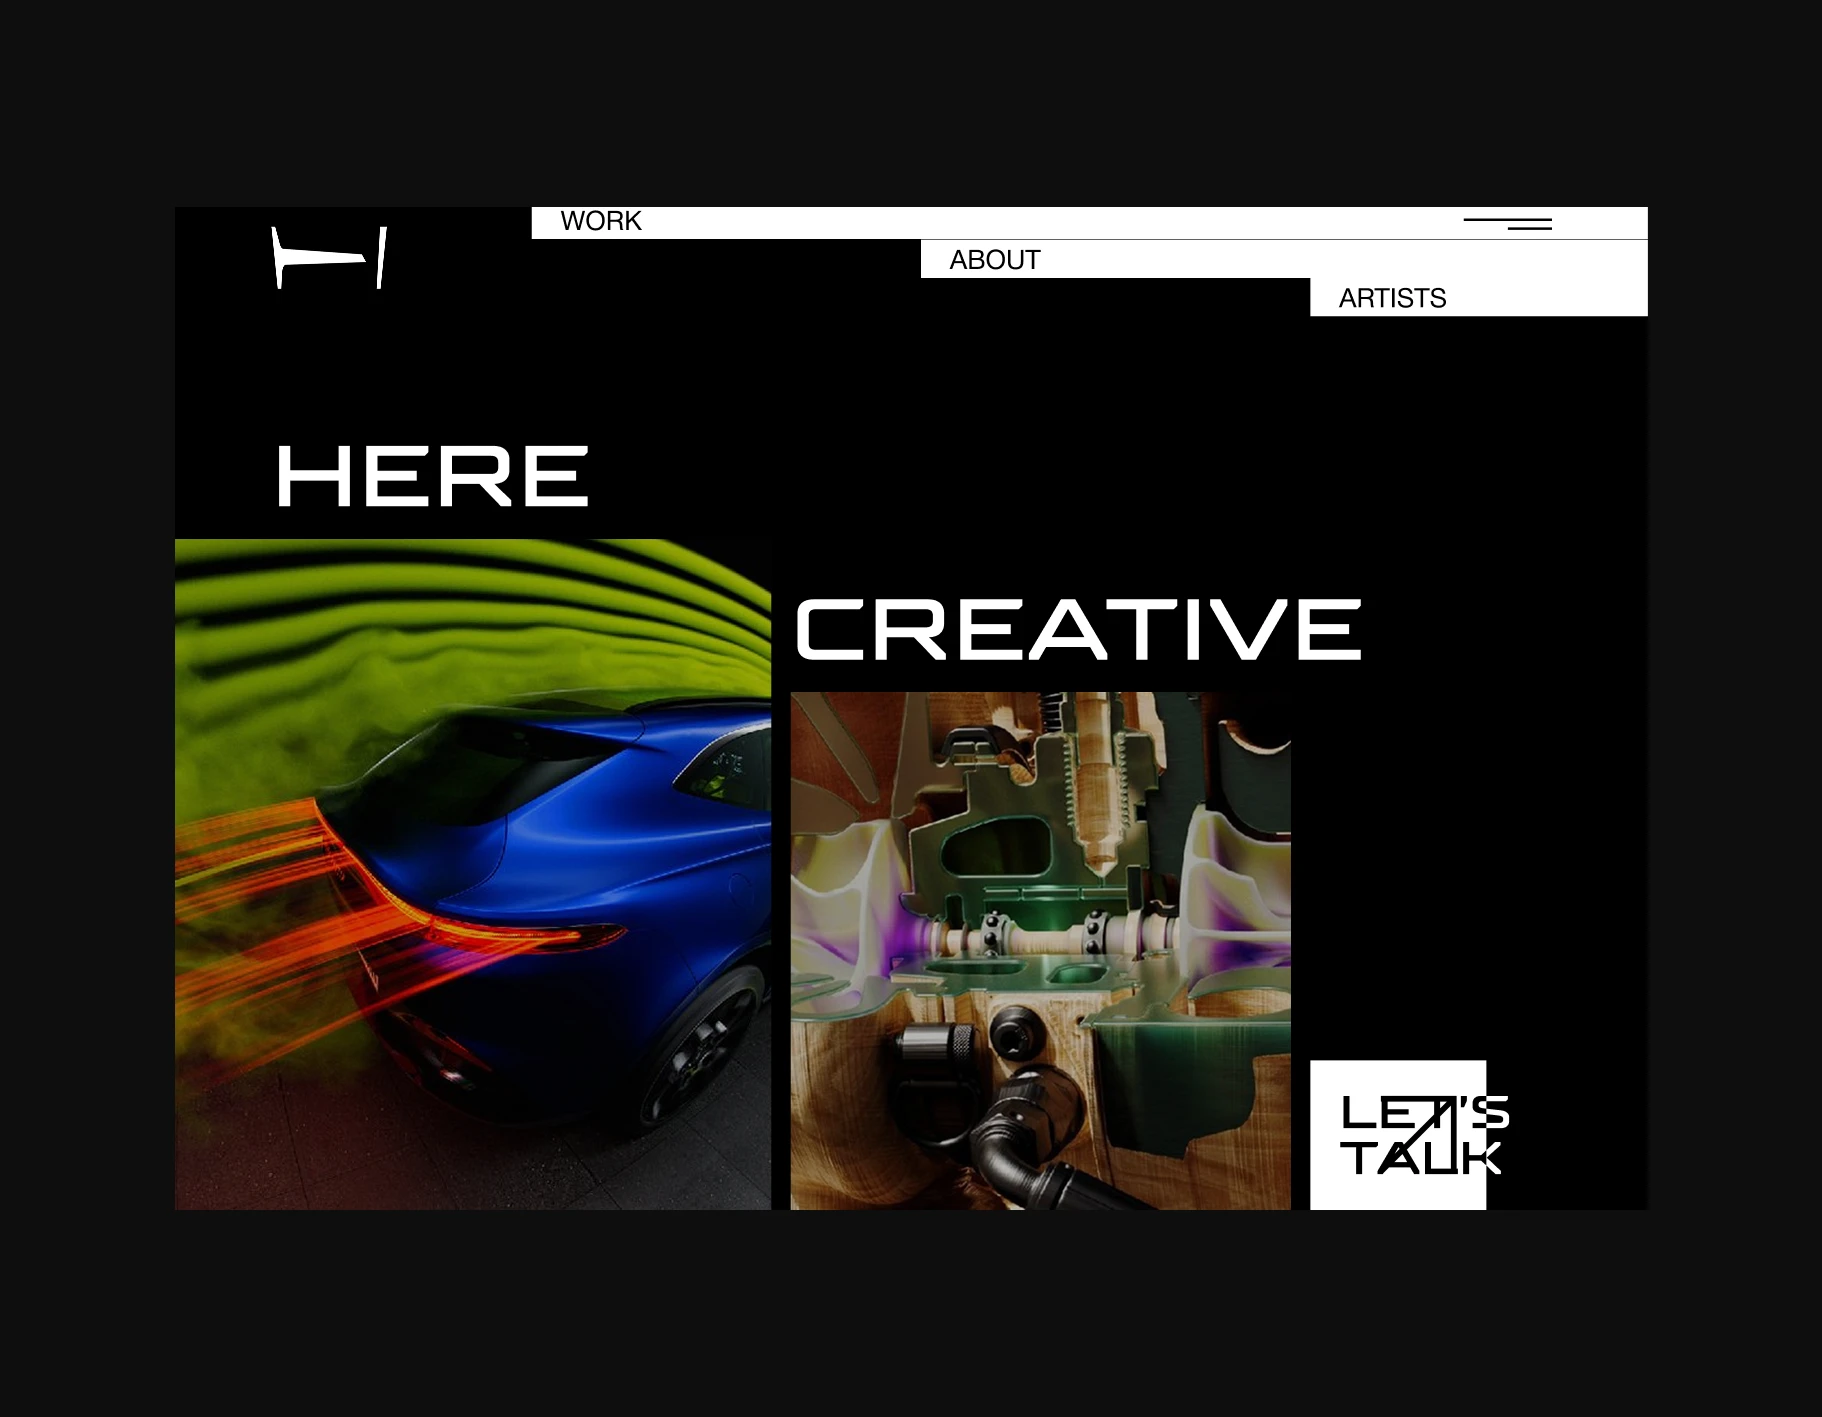
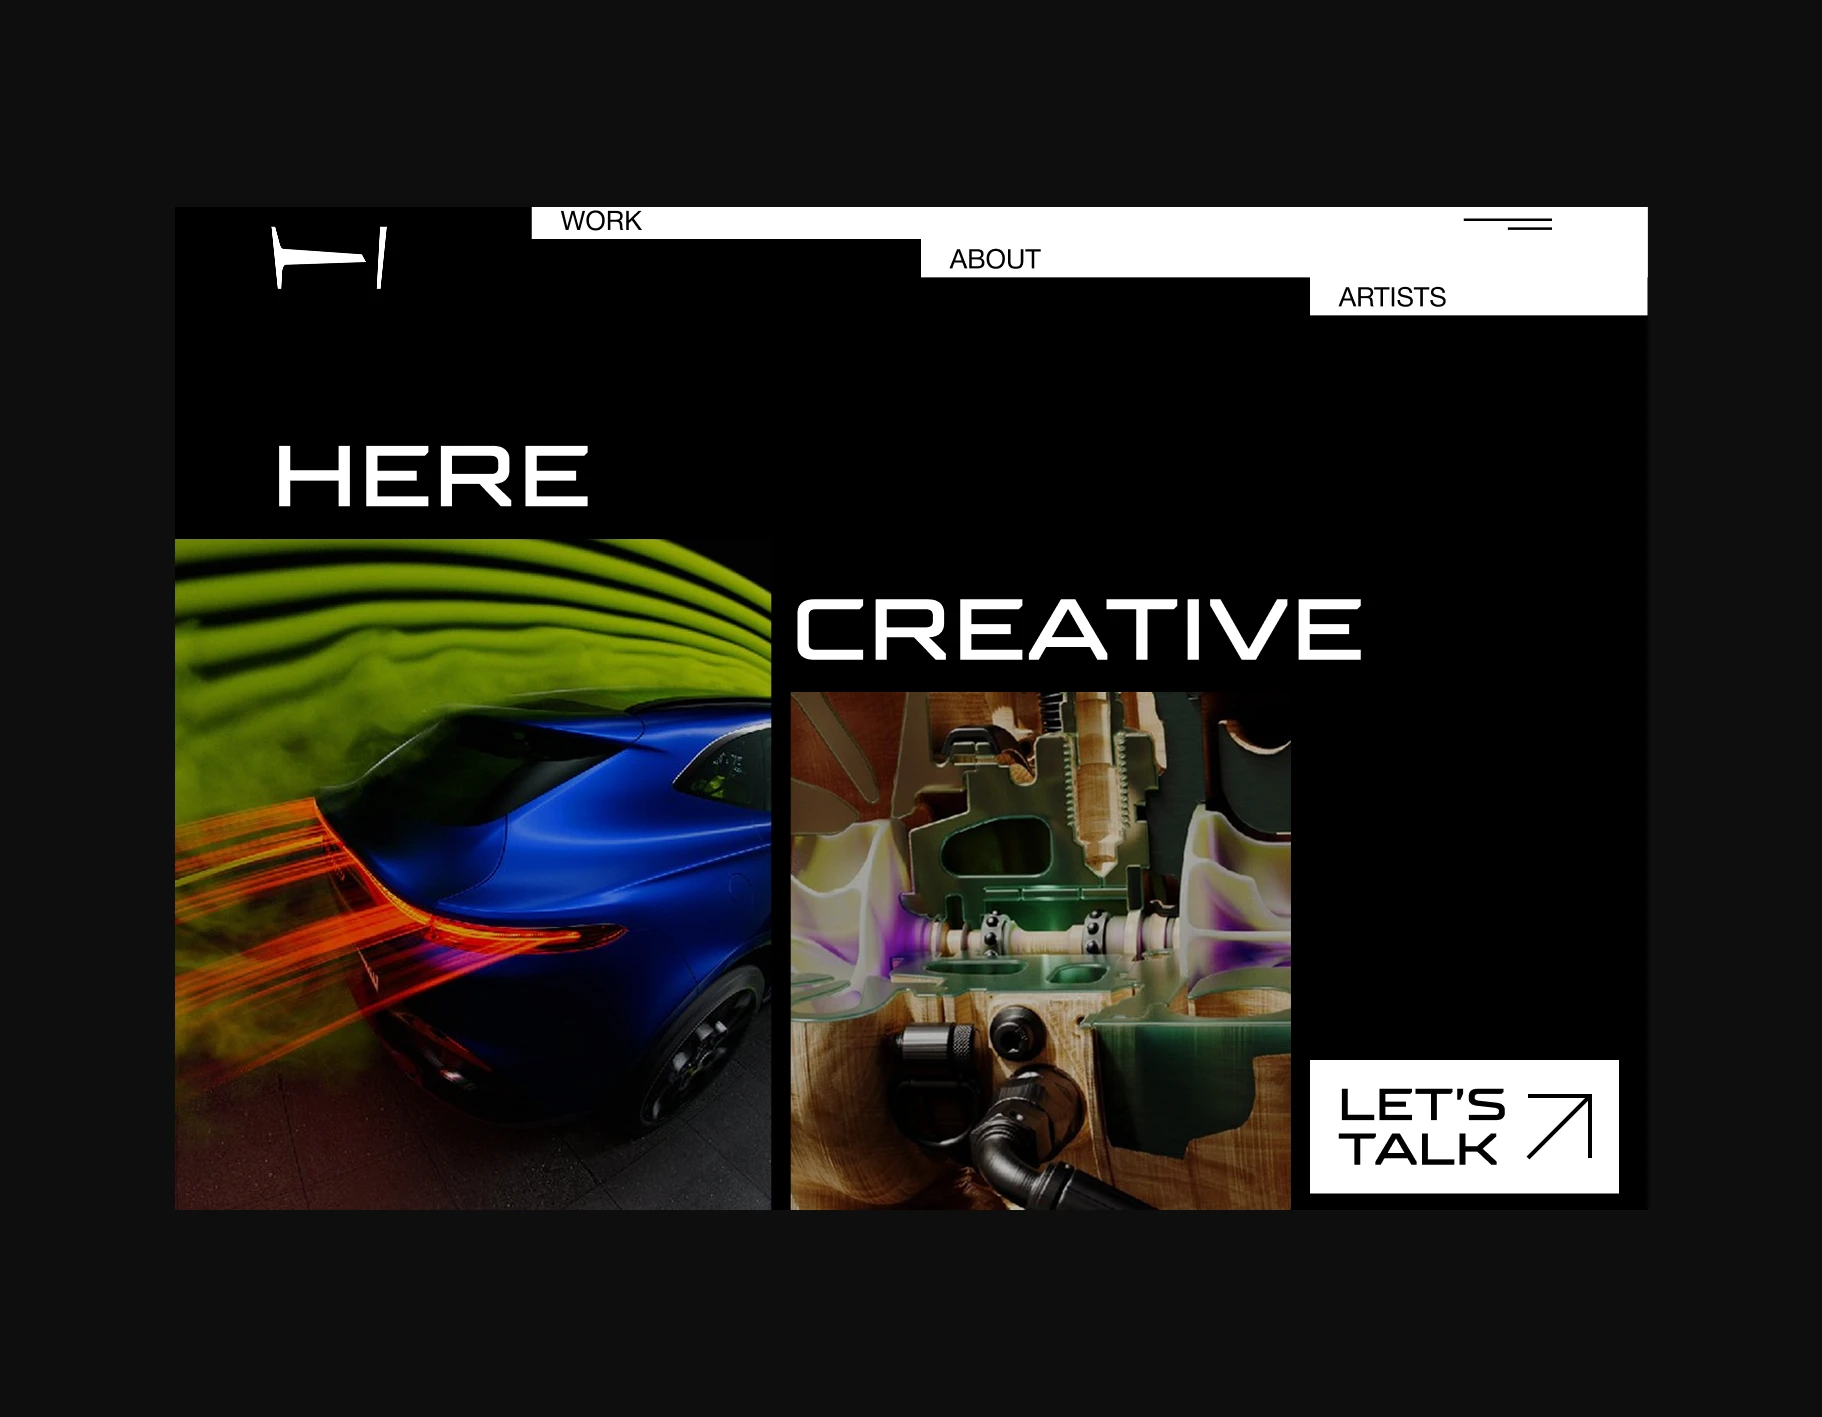
Add WebP covers for Drawstory and Here Creative
- Convert drawstory.png + here creative.png → .webp (cwebp q90)
- Wire up drawstory cover in PROJECTS array

Changed region(s): [[0.7069, 0.7452, 0.8913, 0.8694], [0.7377, 0.1863, 0.7991, 0.2174], [0.5225, 0.1553, 0.5532, 0.1863]]

diff --git a/js/main.js b/js/main.js
@@ -110,7 +110,7 @@ const PROJECTS = [
     type: 'Product Design',
     role: 'Product Designer',
     year: '2024',
-    cover: null, imgs: [],
+    cover: '/images/Works_Covers/drawstory.webp', imgs: ['/images/Works_Covers/drawstory.webp'],
     href: '#'
   }
 ];
